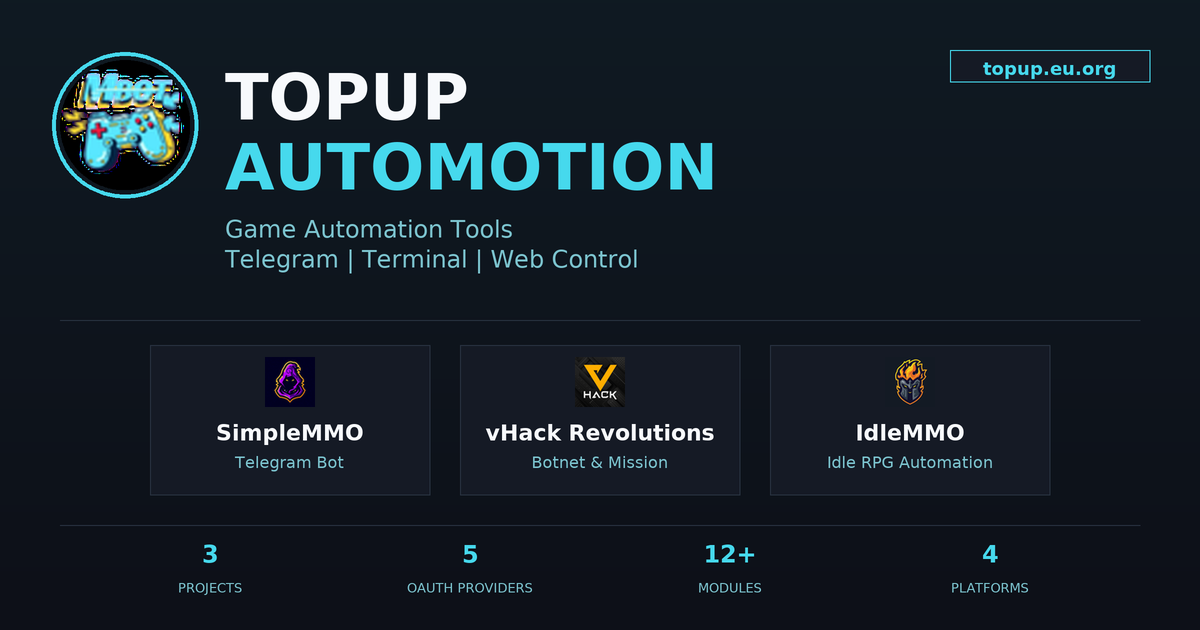
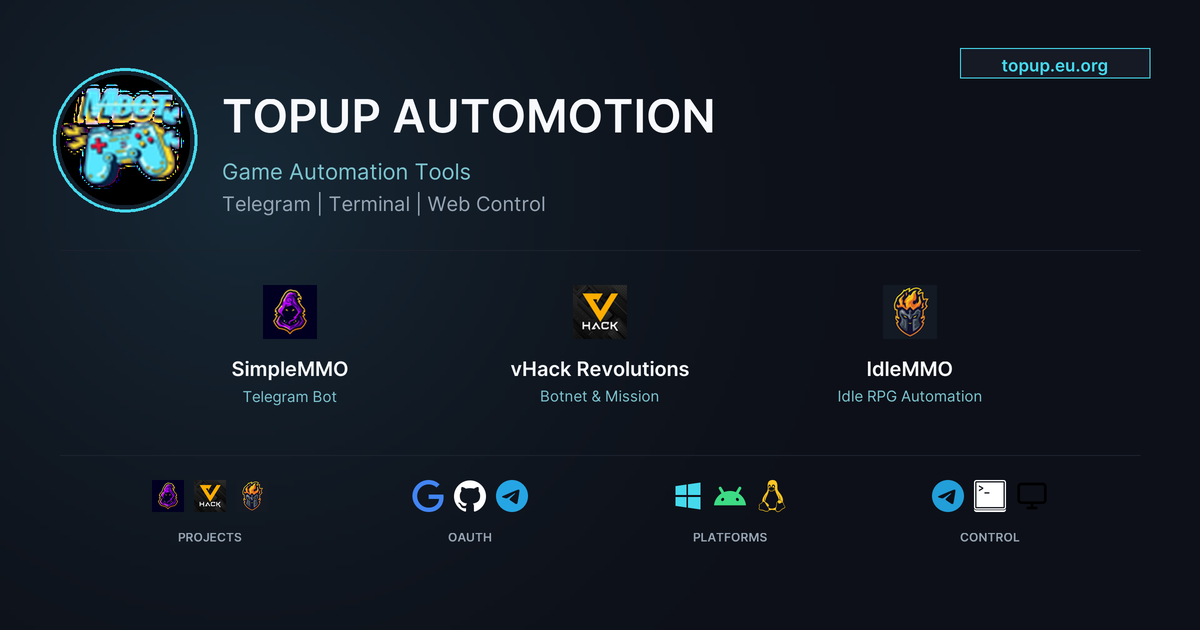
feat(assets): redesign site-og to match dev-og presentation
Unifies the two OG cards so topup.eu.org and dev.topup.eu.org look
like the same brand family:

- Single-line "TOPUP AUTOMOTION" brand, vertically centered with logo
- Inter font throughout (was DejaVu Sans)
- Symmetric radial cyan glow background (was top-light linear gradient)
- Borderless 3 project cards: SimpleMMO, vHack Revolutions, IdleMMO
- Stats row now shows 3 icons per category with no boxes:
  PROJECTS (simplemmo/vhack/idlemmo), OAUTH (google/github/telegram),
  PLATFORMS (windows/android/linux), CONTROL (telegram/terminal/web)
- Cache-buster bumped to ?v=7

diff --git a/_layouts/default.html b/_layouts/default.html
@@ -37,7 +37,7 @@
   <meta property="og:title" content="{{ page.title | default: 'TOPUP AUTOMOTION — Game Automation Tools' }}">
   <meta property="og:description" content="{{ page.description | default: 'Game automation tools with Telegram, Terminal, and Web control.' }}">
   <meta property="og:url" content="https://topup.eu.org{{ page.url }}">
-  <meta property="og:image" content="https://topup.eu.org/assets/images/site-og.png?v=6">
+  <meta property="og:image" content="https://topup.eu.org/assets/images/site-og.png?v=7">
   <meta property="og:image:width" content="1200">
   <meta property="og:image:height" content="630">
   <meta property="og:image:alt" content="TOPUP AUTOMOTION — Game Automation Tools with Telegram Control">
@@ -48,7 +48,7 @@
   <meta name="twitter:creator" content="@bovalone">
   <meta name="twitter:title" content="{{ page.title | default: 'TOPUP AUTOMOTION' }}">
   <meta name="twitter:description" content="{{ page.description | default: 'Game automation tools with Telegram, Terminal, and Web control.' }}">
-  <meta name="twitter:image" content="https://topup.eu.org/assets/images/site-og.png?v=6">
+  <meta name="twitter:image" content="https://topup.eu.org/assets/images/site-og.png?v=7">
   <link rel="icon" type="image/png" href="/assets/images/mbot-favicon.png">
   <link rel="icon" href="/favicon.ico" sizes="any">
   <link rel="apple-touch-icon" href="/assets/images/mbot-favicon.png">
